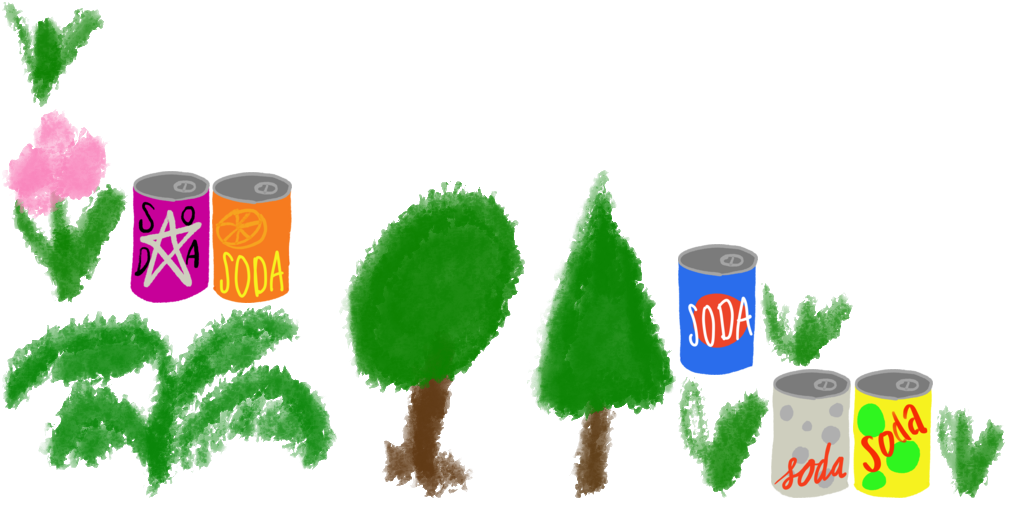
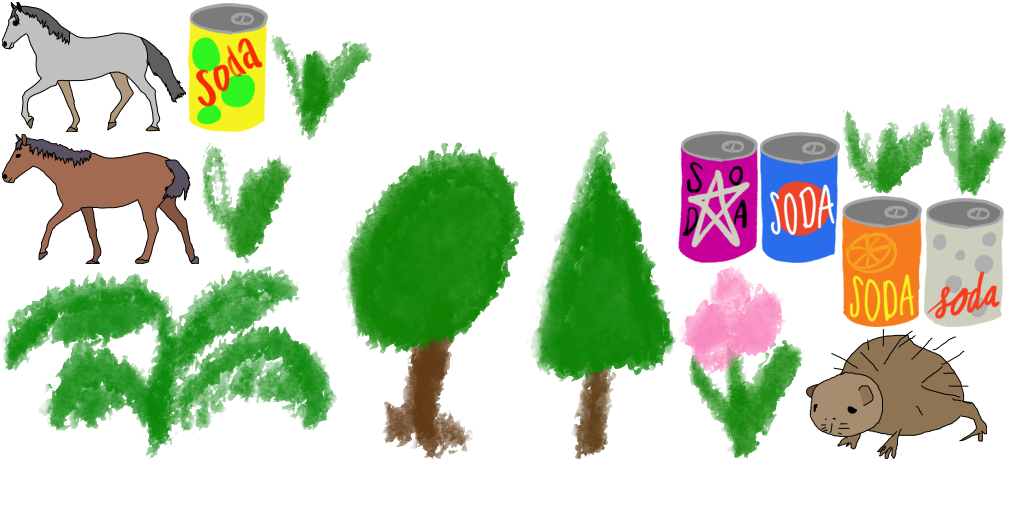
Add animal sprites at start of game

diff --git a/core/src/nz/co/canadia/coolsodacan/Animal.java b/core/src/nz/co/canadia/coolsodacan/Animal.java
@@ -9,16 +9,15 @@ import com.badlogic.gdx.utils.Array;
 import java.util.Comparator;
 
 @SuppressWarnings("NullableProblems")
-public class Plant implements GameObject, Comparable<GameObject>, Comparator<GameObject> {
+public class Animal implements GameObject, Comparable<GameObject>, Comparator<GameObject> {
     private final Sprite sprite;
 
-    Plant(int y, TextureAtlas atlas) {
-        Array<String> plantNameArray = new Array<>();
-        plantNameArray.add("tree01");
-        plantNameArray.add("tree02");
-        plantNameArray.add("fern01");
-        plantNameArray.add("flower01");
-        sprite = atlas.createSprite(plantNameArray.random());
+    Animal(int y, TextureAtlas atlas) {
+        Array<String> animalNameArray = new Array<>();
+        animalNameArray.add("coco");
+        animalNameArray.add("horse01");
+        animalNameArray.add("horse02");
+        sprite = atlas.createSprite(animalNameArray.random());
         sprite.flip(MathUtils.randomBoolean(), false);
         sprite.setCenterX(MathUtils.random(0, Constants.GAME_WIDTH));
         sprite.setY(y);

diff --git a/core/src/nz/co/canadia/coolsodacan/GameScreen.java b/core/src/nz/co/canadia/coolsodacan/GameScreen.java
@@ -66,6 +66,12 @@ public class GameScreen implements Screen, InputProcessor {
             gameObjectArray.add(new Plant(MathUtils.random(0, game.getGameHeight()), atlas));
         }
         nextPlant = MathUtils.randomTriangular(0, 640) / Constants.OBJECT_MOVEMENT_SPEED;
+        // Create animals
+        int nAnimal = MathUtils.round(MathUtils.randomTriangular(3, 6));
+        for (int i = 0; i < nAnimal; i++) {
+            gameObjectArray.add(new Animal(MathUtils.random(0, game.getGameHeight()), atlas));
+        }
+//        gameObjectArray.add(new Animal(MathUtils.random(0, game.getGameHeight()), atlas));
 
         // Sort gameObjectArray so we can render in reverse Y order
         gameObjectArray.sort();

diff --git a/core/src/nz/co/canadia/coolsodacan/Grass.java b/core/src/nz/co/canadia/coolsodacan/Grass.java
@@ -13,12 +13,13 @@ public class Grass implements Comparable<GameObject>, Comparator<GameObject>, Ga
     private final Sprite sprite;
 
     Grass(int y, TextureAtlas atlas) {
-        Array<String> grassNameArray = new Array<>(4);
+        Array<String> grassNameArray = new Array<>();
         grassNameArray.add("grass01");
         grassNameArray.add("grass02");
         grassNameArray.add("grass03");
         grassNameArray.add("grass04");
         sprite = atlas.createSprite(grassNameArray.random());
+        sprite.flip(MathUtils.randomBoolean(), false);
         sprite.setCenterX(MathUtils.random(0, Constants.GAME_WIDTH));
         sprite.setY(y);
     }

diff --git a/todo.md b/todo.md
@@ -1,20 +1,22 @@
 # todo.md
       
+  + Create animal objects
+      - ~~Coco~~, Horse1, Horse2
+      - States:
+          - Normal
+          - Sated (smiling)
+          - Super-sated (has exploded, still smiling, black silhouette)
+      - Change state when hit by can
+      
+  + Add animal sprites to the game
+      - ~~Like grass/trees but more exciting!~~
+      - ~~Game scrolls over time~~
+      - New animals "randomly" added to the top
+      
   + Change grass colour to differentiate from plants
 
   + Create animated small can for throwing
       - Each colour of big can gets its own small can
-      
-  + Create animal sprites
-      - Coco, Horse1, Horse2
-      - States:
-          - Normal
-          - Sated (smiling)
-          - Super-sated (has exloded, still smiling, black silhouette)
-      
-  + Add animal sprites to the game
-      - Like grass but more exciting!
-      - Change state when hit by can
           
   + Create explosion animation
       - Used for trees and animals
@@ -23,6 +25,12 @@
       - After you hit a tree with X cans
       
   + Player can gets stuck on plants/animals
+  
+  + Consider a more composed method for distributing plants/animals
+      - On a grid?
+      - Max number of items per grid square?
+      - Rules?
+      - Is this procgen?
       
   + Title screen
       - New game
